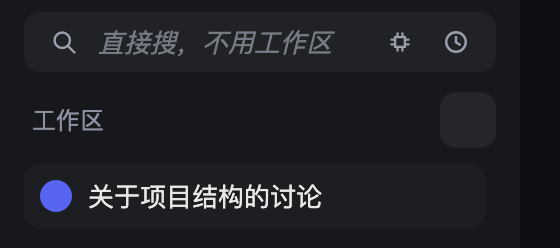
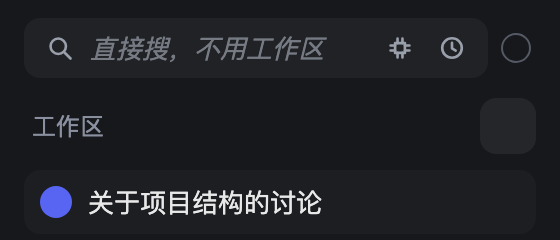
docs: redraw the quick-search screenshots and show the running list (0.5.8)

diff --git a/README.md b/README.md
@@ -51,7 +51,7 @@ The signals are independent and compose freely; plain whale when nothing is up. 
 
 A search box sits permanently under **Automated tasks** in the sidebar and drops the "create a workspace first" step: ask or search right away — type, press Enter, and an ordinary session opens (same UI as any other session) while filing itself into a hidden workspace, out of your sidebar.
 
-![The box sits above the workspace list: magnifier on the left, model and history icons on the right, one faint italic hint when empty](docs/images/quick-search.png)
+![The box sits above the workspace list: magnifier on the left, model, history and running-ring icons on the right, one faint italic hint when empty](docs/images/quick-search.png)
 
 | Element | Behaviour |
 | --- | --- |
@@ -67,7 +67,11 @@ A search box sits permanently under **Automated tasks** in the sidebar and drops
 
 Type a question in that box, the two icons on the right stay put, Enter opens an ordinary session:
 
-![A question typed into the box, the model and history icons unchanged](docs/images/quick-search-typed.png)
+![A question typed into the box, the three icons unchanged](docs/images/quick-search-typed.png)
+
+When sessions are running, the right-hand ring lights up with their count; with two or more, a click opens this list and a row jumps to that session:
+
+![The ring shows 3; opened, it lists three running sessions with their titles and ages](docs/images/quick-search-running.png)
 
 ### Attention favicon
 

diff --git a/README.zh-CN.md b/README.zh-CN.md
@@ -51,7 +51,7 @@
 
 侧边栏【自动化任务】下方常驻一个搜索框，省掉「先建工作区」这一步：想到什么就直接问、直接搜——输入、回车，开的是一个普通会话（界面和普通会话完全一致），会话自己收进隐藏工作区，不占侧边栏。
 
-![搜索框常驻在工作区列表上方：左侧放大镜，右侧模型与历史两个图标，空态是一行斜体淡显的提示](docs/images/quick-search.png)
+![搜索框常驻在工作区列表上方：左侧放大镜，右侧模型、历史、运行环三个图标，空态是一行斜体淡显的提示](docs/images/quick-search.png)
 
 | 元素 | 行为 |
 | --- | --- |
@@ -67,7 +67,11 @@
 
 输入、回车，就是一次搜索会话：
 
-![在框里输入一句问题，右侧两个图标不变，回车即开一个普通会话](docs/images/quick-search-typed.png)
+![在框里输入一句问题，右侧三个图标不变，回车即开一个普通会话](docs/images/quick-search-typed.png)
+
+有会话在跑时，最右的运行环亮起并显示数量；两个以上点开就是这张表，点一条直接进那个会话：
+
+![运行环显示 3，点开后列出三个正在运行的会话标题与距今时间](docs/images/quick-search-running.png)
 
 ### 标签页注意力指示灯
 

diff --git a/CHANGELOG.md b/CHANGELOG.md
@@ -5,6 +5,7 @@
 - 搜索框右侧新增「正在运行」环（数字环）：15px 圆环 + 计数，0 时压暗不可点，1 个会话时点一下直接跳过去，2 个以上点开列表（标题 + 距今时间，按最近活动排序）。只数顶层会话，`origin === 'subagent'` 的不计入；数据直接读 `sessions.list` 的 `running` 字段，不额外轮询。
 - 几何：圆环放在输入框外面（20px 槽 + 4px 间距），输入框相应收窄 24px；为让提示语仍完整，框内左右内边距 8px → 6px、图标间距 6px → 4px（左右仍对称）。
 - 环的状态随会话列表实时刷新（会话开始/结束、切换语言都会重绘）；列表打开期间若运行数降到 1，列表自动关闭。
+- 文档：`docs/images/quick-search.png` 与 `quick-search-typed.png` 重画（新几何 + 运行环），新增 `quick-search-running.png`（环显示 3 时的列表）；中英文说明同步。
 - 测试：新增「运行环计数 / 单个直接跳 / 多个开列表」用例，`node --test tests/workspace-quick-search.test.mjs` 18 条全过，全套 134 条全过。
 
 ## 0.5.7 — 2026-10-19
